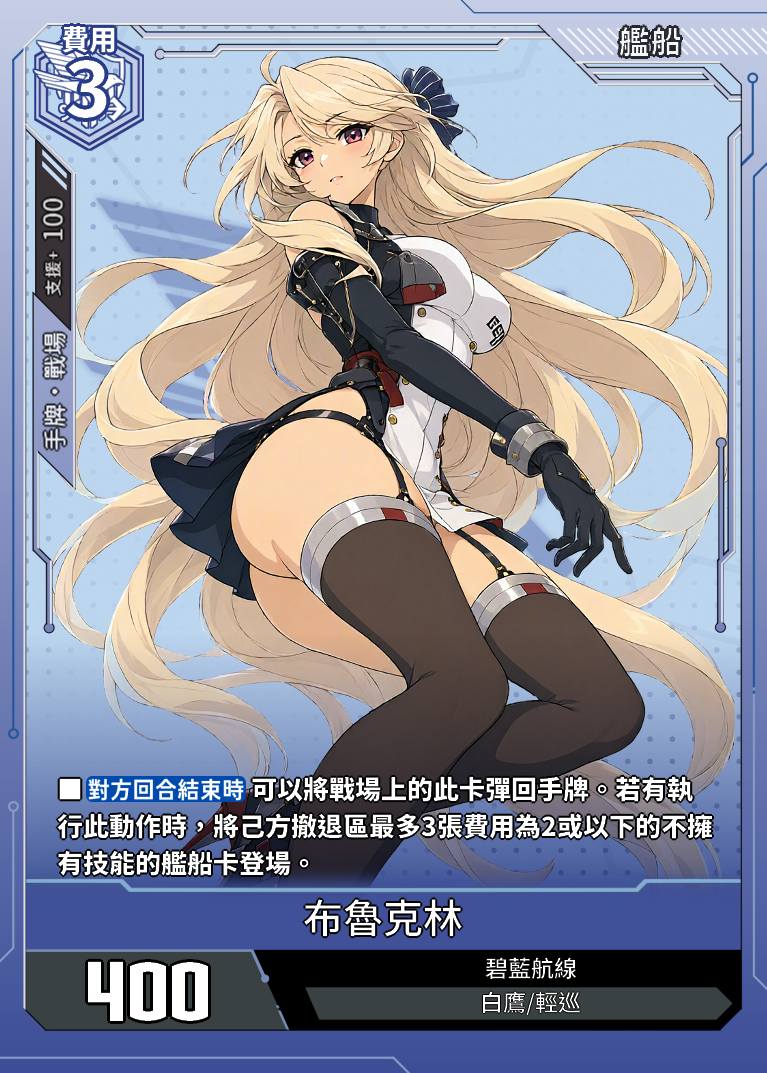
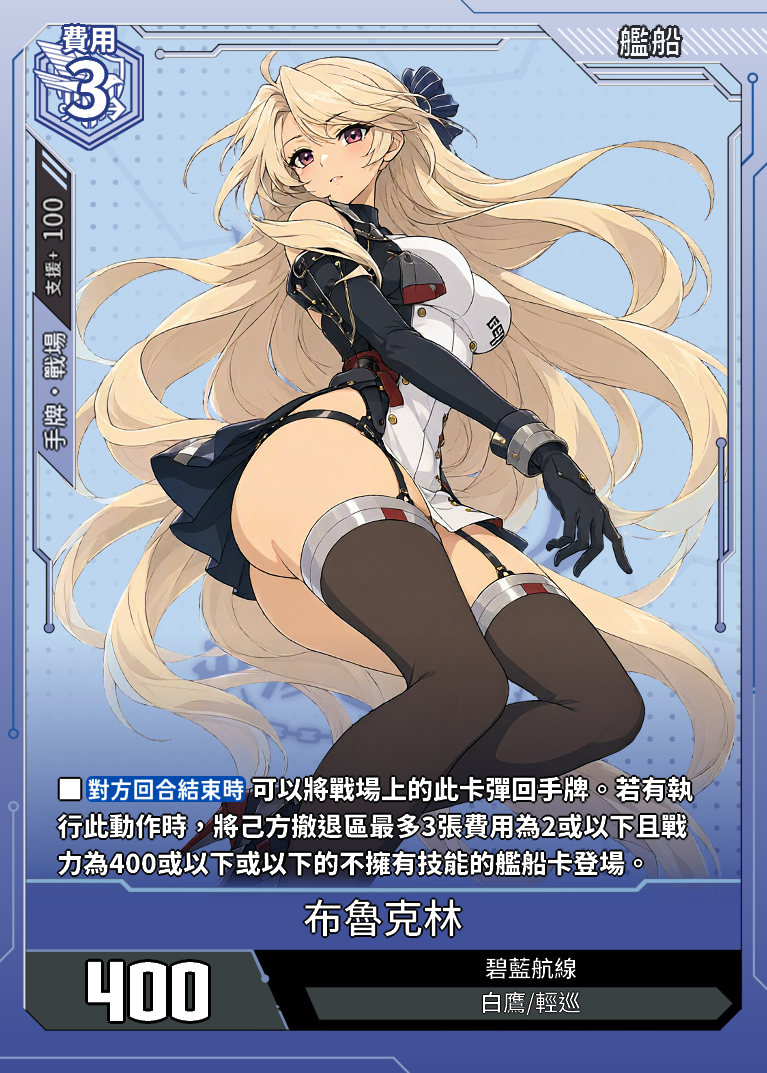
更新上位、調整布魯克林

diff --git a/data.js b/data.js
@@ -26770,7 +26770,7 @@ const cards = [
             "支援範圍": "手牌·戰場",
             "支援值": "100"
         },
-        "card_effect": "■【對方回合結束時】可以將戰場上的此卡彈回手牌。若有執行此動作時，將己方撤退區最多3張費用為2或以下的不擁有技能的艦船卡登場。",
+        "card_effect": "■【對方回合結束時】可以將戰場上的此卡彈回手牌。若有執行此動作時，將己方撤退區最多3張費用為2或以下且戰力為400或以下的不擁有技能的艦船卡登場。",
         "acquisition_method": "CE03-早期測試"
     },
 	{

diff --git a/topdeck.js b/topdeck.js
@@ -1,6 +1,15 @@
 // topdeck.js
 const topDecks = [
   {
+    "deck_id": "20261019-1",
+    "L_name": "加賀",
+    "Format": "7.5.2",
+    "Description": "20261019 玩具e哥花蓮和平店 碧藍戰卡CE週賽 8人(7.5.2) 冠軍 火力 ひろし",
+    "Level": "常規賽",
+    "Players": 8,
+    "Champion": 1
+  },
+  {
     "deck_id": "20261011-1",
     "L_name": "加賀",
     "Format": "7.5.2",
